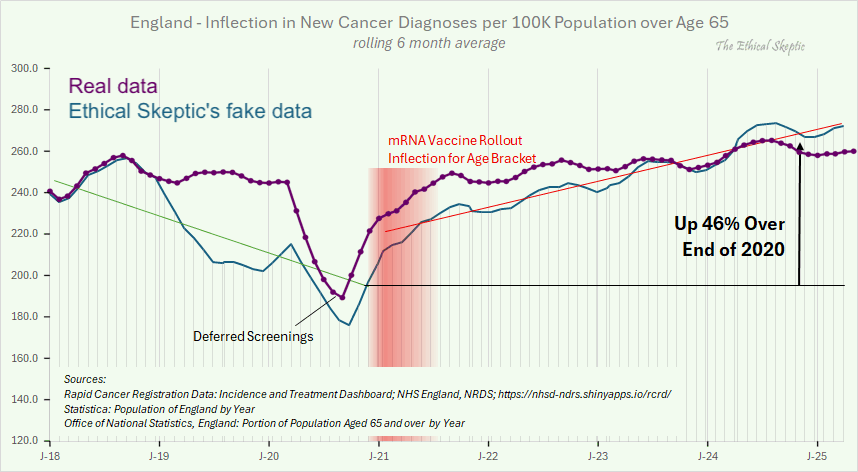
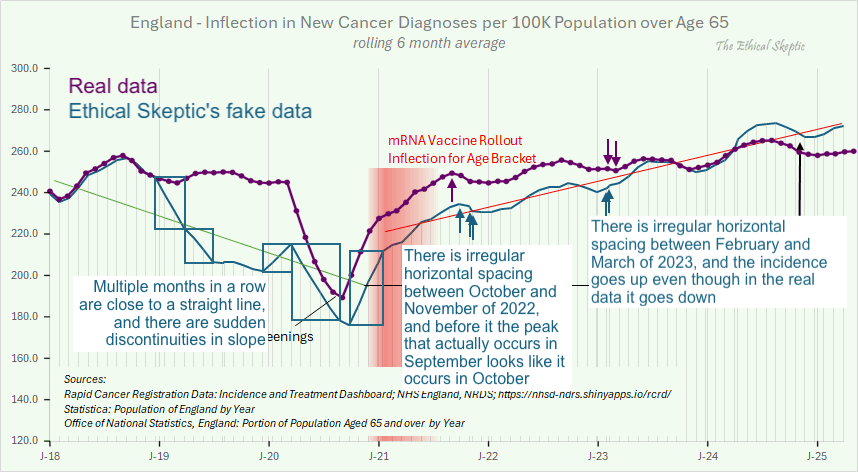
a

diff --git a/ethical2.html b/ethical2.html
@@ -3047,12 +3047,16 @@ ggsave(&quot;1.png&quot;,width=5,height=3,dpi=300*4)</pre>
 <div>
 <img src=i/ethical-dutchcancer-1.png width=600>
 </div>
-<p>His image was an English translation of a plot that was included in this blog post: <a href=https://virusvaria.nl/en/sterfte-naar-doodsoorzaak-nieuwvormingen-kanker/.><a href="https://virusvaria.nl/en/sterfte-naar-doodsoorzaak-nieuwvormingen-kanker/" class="uri">https://virusvaria.nl/en/sterfte-naar-doodsoorzaak-nieuwvormingen-kanker/</a>.</a> The post cited this page as their source: <a href=https://nkr-cijfers.iknl.nl/viewer/incidentie-per-jaar?language=nl_NL&viewerId=8fda5a06-e543-4f4c-ac02-22f853e5802a.><a href="https://nkr-cijfers.iknl.nl/viewer/incidentie-per-jaar?language=nl_NL&amp;viewerId=8fda5a06-e543-4f4c-ac02-22f853e5802a" class="uri">https://nkr-cijfers.iknl.nl/viewer/incidentie-per-jaar?language=nl_NL&amp;viewerId=8fda5a06-e543-4f4c-ac02-22f853e5802a</a>.</a></p>
-<p>Jean Fisch pointed out that if you look at the age-standardized incidence rate from the same source, it has roughly followed the pre-COVID trend since 2020 or even fallen below the trend: [<a href=https://nkr-cijfers.iknl.nl/viewer/incidentie-per-jaar?language=en_GB&viewerId=3b381d94-315c-4be6-8450-c3f98e62a870>https://nkr-cijfers.iknl.nl/viewer/incidentie-per-jaar?language=en_GB&amp;viewerId=3b381d94-315c-4be6-8450-c3f98e62a870</a>]</p>
+<p>His image was an English translation of a plot that was included in this blog post: <a href=https://virusvaria.nl/en/sterfte-naar-doodsoorzaak-nieuwvormingen-kanker/.><a href="https://virusvaria.nl/en/sterfte-naar-doodsoorzaak-nieuwvormingen-kanker/" class="uri">https://virusvaria.nl/en/sterfte-naar-doodsoorzaak-nieuwvormingen-kanker/</a>.</a> The author of the post cited this page as their source: <a href=https://nkr-cijfers.iknl.nl/viewer/incidentie-per-jaar?language=nl_NL&viewerId=8fda5a06-e543-4f4c-ac02-22f853e5802a.><a href="https://nkr-cijfers.iknl.nl/viewer/incidentie-per-jaar?language=nl_NL&amp;viewerId=8fda5a06-e543-4f4c-ac02-22f853e5802a" class="uri">https://nkr-cijfers.iknl.nl/viewer/incidentie-per-jaar?language=nl_NL&amp;viewerId=8fda5a06-e543-4f4c-ac02-22f853e5802a</a>.</a></p>
+<p>Jean Fisch pointed out that if you look at the age-standardized incidence rate from the same source, it has roughly followed the pre-COVID trend since 2020 or even fallen below the trend: [<a href=https://x.com/Jean&#x5f;&#x5f;Fisch/status/1946615115190509756>https://x.com/Jean__Fisch/status/1946615115190509756</a>]</p>
+<div>
+<img src=i/ethical-dutchcancer-4.png width=550>
+</div>
+<p>Here's age-adjusted data for ages 30-44 combined from the same source: [<a href=https://nkr-cijfers.iknl.nl/viewer/incidentie-per-jaar?language=en_GB&viewerId=3b381d94-315c-4be6-8450-c3f98e62a870>https://nkr-cijfers.iknl.nl/viewer/incidentie-per-jaar?language=en_GB&amp;viewerId=3b381d94-315c-4be6-8450-c3f98e62a870</a>]</p>
 <div>
 <img src=i/ethical-dutchcancer-2.png width=500>
 </div>
-<p>ES responded to Fisch by saying that he was not a professional, and that his plot showed was a <span class="quote">"diluted and manipulated index"</span>:</p>
+<p>ES responded to Fisch by saying that he was not a professional, and that his plot showed a <span class="quote">"diluted and manipulated index"</span>: [<a href=https://x.com/EthicalSkeptic/status/1946618374311620891>https://x.com/EthicalSkeptic/status/1946618374311620891</a>]</p>
 <div>
 <img src=i/ethical-dutchcancer-3.png width=560>
 </div>

diff --git a/ethical4.html b/ethical4.html
@@ -161,7 +161,7 @@ ggsave(&quot;1.png&quot;,width=5.1,height=3,dpi=300*4)</pre>
 <div>
 <img src=i/ethical-englandincidence-10.png width=400>
 </div>
-<p>In the next plot I overlaid the real data on top of Ethical Skeptic's fake plot. I took the real data from the rapid registration dashboard, divided it by the population estimate of ages 65 and above, multiplied the result by 100,000, and took a 6-month moving average of the data. But again you can see how ES seems to have manually altered the data to produce a false decrease in 2019, and to exaggerate the increase after 2020:</p>
+<p>The next plot shows that I found anomalous features next to two pairs of months that had irregular horizontal spacing. It's also weird how there's several segments of months in 2019 and 2020 that look almost like straight lines, where there's often sudden discontinuities in slope before or after the lines. In the real data there are only two clear discontinuities in the slope, which are between March and April of 2020 because the incidence dropped dramatically in April, and between September and October 2020 because April 2020 fell out of the window of the moving average:</p>
 <div>
 <img src=i/ethical-englandincidence-13.png width=650>
 </div>
